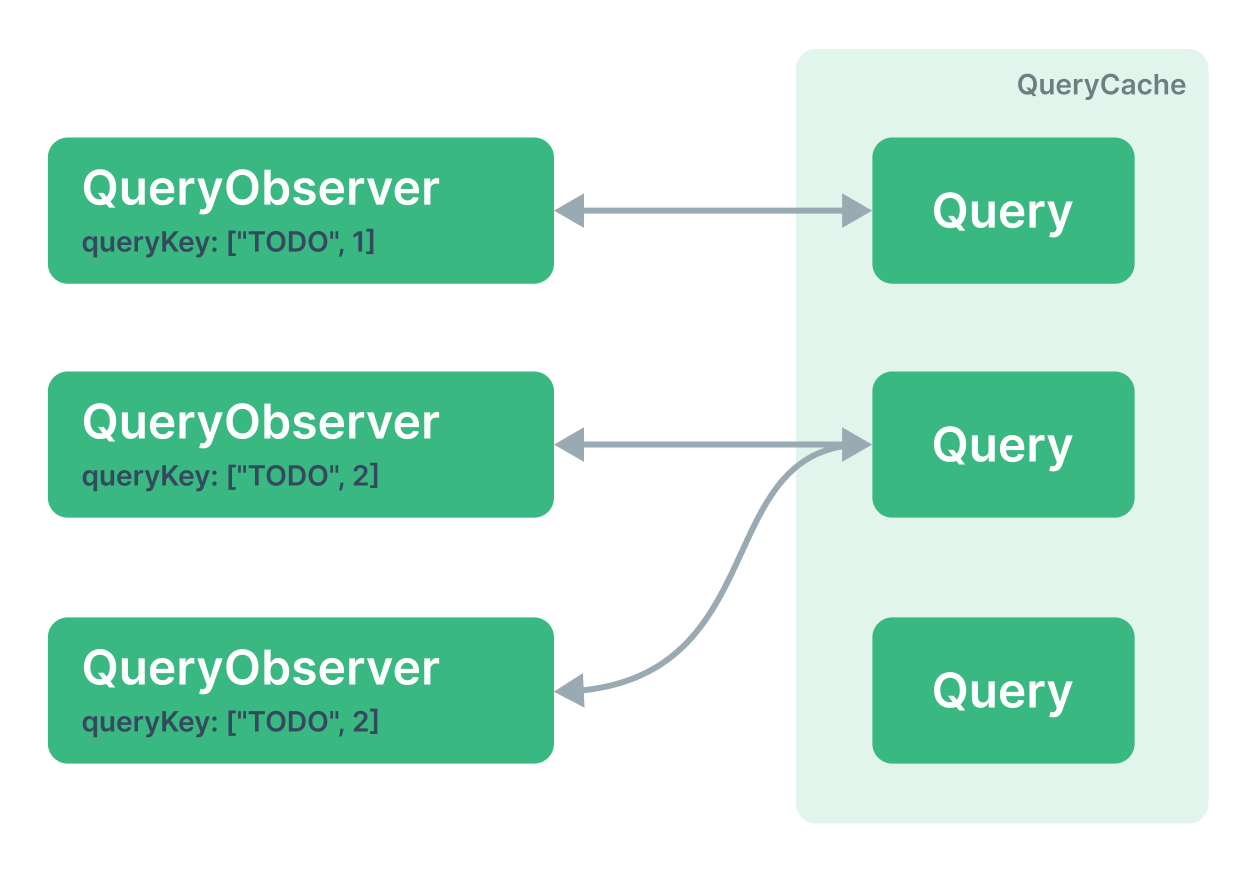
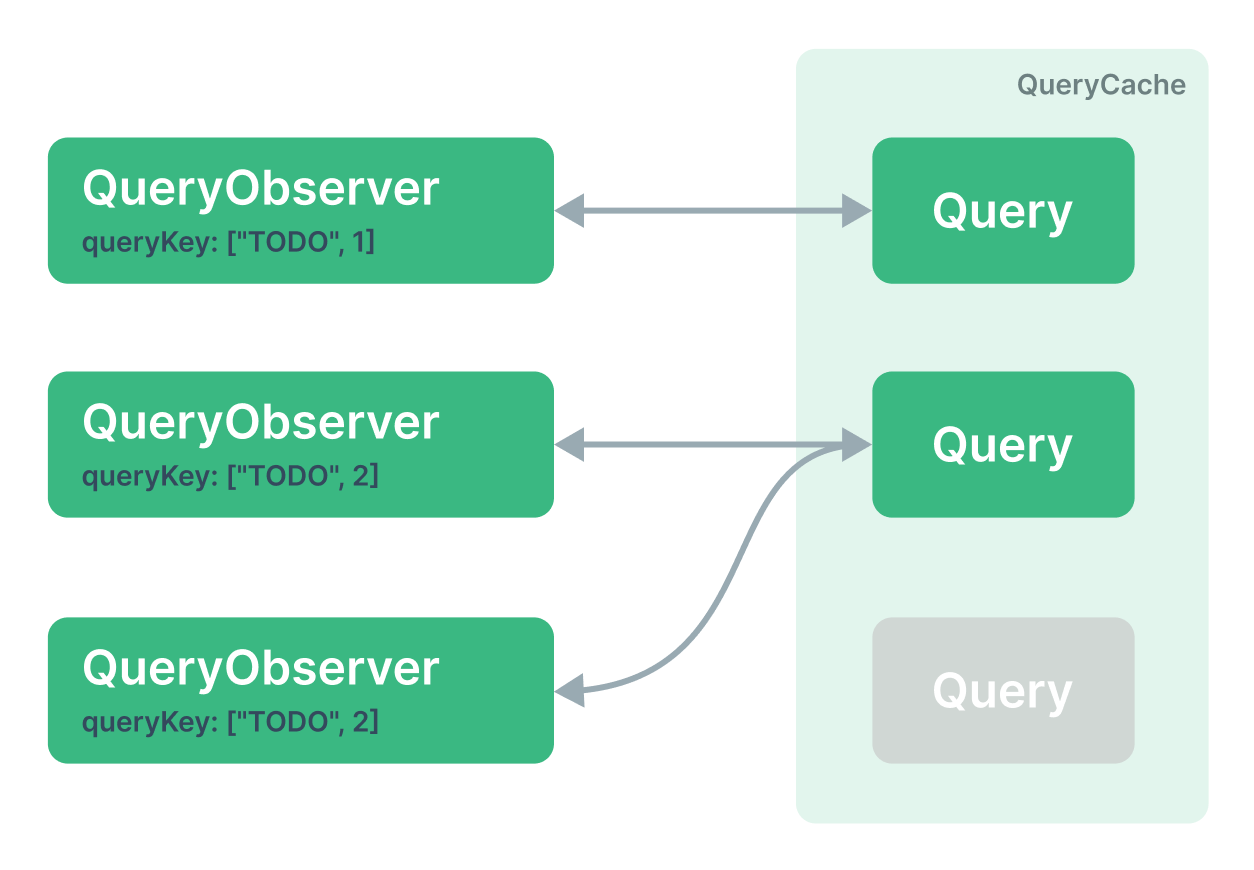
update

Changed region(s): [[0.6842, 0.6828, 0.933, 0.9]]

diff --git a/content/posts/tanstack-query-source-code-1.md b/content/posts/tanstack-query-source-code-1.md
@@ -5,29 +5,31 @@ tags:
   - Tanstack Query
 
 created: 2023-09-30T13:45:16.002Z
-description: 你是怎麼管理專案 server data 的狀態呢？我們不僅要處理 server data 的快取，還要讓它能盡可能的跨元件共用，最後又要在適當的時候清除並更新，阿哩阿雜的很煩人。TanStack Query 是一個很棒的 data-fetching 以及 state management 工具，他可以幫助我們輕易的解決上述的各種煩人的問題。這個系列文章將從如何使用 TanStack Query 以及深入暸解它底層運作的原理與邏輯。
+description: 你是怎麼管理專案的 server data 狀態呢？前端開發時不僅要處理 server data 的快取，還要讓它能盡可能的跨元件共用，最後又要在適當的時候清除或更新，阿哩阿雜的很煩人。TanStack Query 是一個可以很好的解決這些問題的工具。這個系列文章將從如何使用 TanStack Query 以及深入暸解它底層運作的原理與邏輯。
 ---
 
 ## 前言
+
+> 本篇的 TanStack Query 版本為 5.0.0-rc.1
 
 我也還不知道這系列會有多少文章，但有更新的話會一一的列在這裡：
 
 1. [深入淺出 TanStack Query（一）：在呼叫 useQuery 後發生了什麼事](/posts/tanstack-query-source-code-1)
 
-> 本篇的 TanStack Query 版本為 5.0.0-rc.1
-
-TanStack Query 有個更為人熟知的名稱：**React-Query**。TanStack Query 在 v4 的時候將核心獨立分離出來，分離出來的 `query-core` 本身與框架無關所以可再依照不同的框架特性分別封裝成專屬特定框架使用的 package，像是目前TanStack Query 就提供以下 npm package 給不同框架的使用者使用：
+TanStack Query 有個更為人熟知的名稱叫：**React-Query**。而 TanStack Query 在 v4 的時候將核心獨立分離出來，分離出來的 `query-core` 本身與框架無關所以可再依照不同的框架特性分別封裝成專屬特定框架使用的 package，像是目前TanStack Query 就提供以下 npm package 給不同框架的使用者使用：
 
 - Vue：`@tanstack/vue-query`
 - React：`@tanstack/react-query`
 - Solid：`@tanstack/solid-query`
 - Svelte：`@tanstack/svelte-query`
 
-我第一次接觸 Tanstack Query 是在他還叫做 React Query 的時期，後來的工作多以 Vue 為主，也剛好這時 React Query 改名成了 TanStack Query 也推出了 Vue 的版本，所以接下來的範例會用設計給 Vue 使用的 `@tanstack/vue-query` 撰寫，API 在使用上會與 React 版本的 `@tanstack/react-query` 有一丁點差異。在涉及核心實作時，基本上如同前面提到的「**與框架無關**」所以就算是 React 的使用者也可以方心服用。
+所以接下來的範例會用設計給 Vue 使用的 `@tanstack/vue-query` 撰寫，API 在使用上會與 React 版本的 `@tanstack/react-query` 有一丁點差異。在涉及核心實作時，基本上就如同前面提到的「**與框架無關**」所以就算是 React 的使用者也可以方心服用。
 
 ## 為何要使用 Tanstack Query
 
-Tanstack Query 不是一個 Data Fetching 的工具，他是一個 Server Data 的狀態管理工具？Tanstack Query 會幫我們快取來自 Server 的 Data，並且在適當的時間內重用快取或是在背景重新去得資料。在不使用 Tanstack Query 時我們需要手動的將這些狀態一個一個存起來自己管理：
+Tanstack Query 不是一個 data fetching 的工具，它是一個 server data 的狀態管理工具？Tanstack Query 會幫我們快取來自 server 的資料，並且在適當的時間內盡可能使用快取或是在過期後背景重新去得資料。
+
+在不使用 Tanstack Query 時我們需要手動的將這些狀態一個一個存起來自己管理：
 
 ```vue
 <script lang="ts">
@@ -131,11 +133,11 @@ const { data, error, isFetching } = useTodo(1);
 
 如果 A 元件與 B 元件同時出現在畫面上，則只會發出一個 data fetching，並且兩個元件共享同一個資料響應。
 
-感受到 Tanstack Query 的威力了嗎？當然他遠不止如此，其他的未來有機會再慢慢介紹，到這裡扣出了本篇想探討的主題：在呼叫 `useQuery` 後發生了什麼事？
+感受到 Tanstack Query 的威力了嗎？當然他遠不止如此，其他的未來有機會再慢慢介紹，到這裡扣出了本篇想探討的主題：**在呼叫 `useQuery` 後發生了什麼事？**
 
 ## 在呼叫 useQuery 後發生了什麼事
 
-在我們每次呼叫了 `useQuery` 後 Tanstack Query 會建立一個 `QueryObserver` 的 instance，這個 instance 紀錄著我們傳入的設定，並且他會拿著這個設定去一個叫 `QueryCache` 的 instance 上找有沒有符合條件的 `Query` instance 存在，有的話就取出使用，沒有的話 `QueryCache` 就會就建立一個新的 `Query` instance 返回並儲存。
+在我們每次呼叫 `useQuery` 後 Tanstack Query 會建立一個 `QueryObserver` 的 instance，這個 instance 紀錄著我們傳入的設定，並且他會拿著這個設定去一個叫 `QueryCache` 的 instance 上找有沒有符合條件的 `Query` instance 存在，有的話就取出使用，沒有的話 `QueryCache` 就會就建立一個新的 `Query` instance 返回並儲存。
 
 所以如果當上面範例的 `useTodo` 分別傳入不同 `id` 呼叫了三次，他被後建立的結構圖如下：
 
@@ -153,7 +155,7 @@ function useTodo(id: number) {
 }
 ```
 
-每一個 `QueryObserver` instance 都只會對應到一個 `Query` instance。所以當上面的 `useTodo` 其中兩次呼叫的參數是重複的時候，他的關係圖就會如下：
+每一個 `QueryObserver` instance 都只會對應到一個 `Query` instance。所以當程式更新，第三個 `useTodo` 呼叫的 `queryKey` 變成與第二次的相同，他的關係圖就會變成如下：
 
 ![Query 與 QueryObserver 結構圖（2） - by Alex Liu](/images/query-architecture-2.png){width=794 height=530}
 
@@ -214,17 +216,25 @@ JSON.stringify(value [,replacer [, space]])
 
 轉換成字串的 `queryKey` 叫做 `queryHash`，有了 `queryHash` 就可以在 `QueryCache` 上的 `#queries` 找找有沒有存在的 `Query` instance 在裡面。有的話就重複使用，沒有的話就建立一個新的 `Query` instance。
 
+注意：因為 `queryKey` 轉換成 `queryHash` 的過程在實作上只針對物件的 keys 做排序，所以陣列裡面的順序不同是會視為不同的 `queryKey`。
+
+```ts
+useQuery({ queryKey: ['TODOS', status, page], ... })
+useQuery({ queryKey: ['TODOS', page, status], ...})
+useQuery({ queryKey: ['TODOS', undefined, page, status], ...})
+```
+
+以上三個，因為陣列內的順序不太一樣，所以會視為不同的 `queryKey`。
+
 ## 建立雙向的關係
 
 每一個 `QueryObserver` 都會指向一個 `Query`，而 `Query` 掌管了 data fetching 跟狀態管理，當 `Query` instance 上的資料更新他也要通知所有 `QueryObserver` 更新資料，可是此時 `Query` 並不會知道有哪些 `QueryObserver` 指向（訂閱）他，所以 Tanstack Query 需要一個機制來讓 `Query` 收集有哪些 `QueryObserver` 指向自己。
 
-為了說明 Tanstack Query 怎麼處理這件事情，我們先跳離核心（`query-core`），來看看 `vue-query` 怎麼訂閱 `Query` 上的狀態。
+為了說明 Tanstack Query 怎麼處理這件事情，我們先跳離核心（`query-core`），來看看 `vue-query` 跟 `react-query` 怎麼訂閱 `Query` 上的狀態更新。
 
 **vue-query**
 
 ```ts
-// useBasicQuery.ts
-
 const observer = new Observer(client, defaultedOptions.value)
 const state = reactive(observer.getCurrentResult())
 
@@ -242,6 +252,32 @@ watch(
 )
 ```
 
+**react-query**
+
+```ts
+const [observer] = React.useState(() => new Observer(client, defaultedOptions),)
+const result = observer.getCurrentResult()
+
+React.useSyncExternalStore(
+  React.useCallback(
+    (onStoreChange) => {
+      const unsubscribe = isRestoring
+        ? () => undefined
+        : observer.subscribe(notifyManager.batchCalls(onStoreChange))
+
+      // Update result to make sure we did not miss any query updates
+      // between creating the observer and subscribing to it.
+      observer.updateResult()
+
+      return unsubscribe
+    },
+    [observer, isRestoring],
+  ),
+  () => observer.getCurrentResult(),
+  () => observer.getCurrentResult(),
+)
+```
+
 假設 `isRestoring` 一開始就是 `false`，這時會執行 `observer.subscribe(callback)`。這個 `subscribe` 是 `QueryObserver` 繼承的 `Subscribable` 類型上的實作方法，他又會呼叫 `QueryObserver` 上的 `onSubscribe`，如下：
 
 ```ts
@@ -250,7 +286,8 @@ class QueryObserver extends Subscribable {
    protected onSubscribe(): void {
     if (this.listeners.size === 1) {
       // this.#currentQuery 是這個 QueryObserver 指向的 `Query` instance
-      // 當框架實作訂閱了
+      // 當框架實作執行了 `observer.subscribe(callback)` 就會在這裡將當前的
+      // QueryObserver instance 加到 `Query` 的觀察者清單裡面。
       this.#currentQuery.addObserver(this)
 
       if (shouldFetchOnMount(this.#currentQuery, this.options)) {
@@ -263,9 +300,9 @@ class QueryObserver extends Subscribable {
 }
 ```
 
-當 `onSubscribe` 被呼叫後，`QueryObserver` 就會將自己的 instance 添加到他所追蹤的 `Query` instance 上的觀察者清單，這樣 `Query` 就完成了訂閱的收集，只要 `Query` 有任何狀態變更，像是開始請求、請求成功、請求失敗 … 等，`Query` 都可以把收集到的 `QueryObserver` 一個一個叫出來更新。
+當 `onSubscribe` 被呼叫後，`QueryObserver` 就會將自己的 instance 添加到他所追蹤的 `Query` instance 上的觀察者清單，這樣 `Query` 就完成了訂閱的收集，接下來只要 `Query` 有任何狀態變更，像是開始請求、請求成功、請求失敗 … 等，`Query` 都可以把收集到的 `QueryObserver` 一個一個叫出來更新。
 
-建立了雙向的關係，`QueryObserver` 可以知道要去那個一個 `Query` 上面找資料，而 `Query` 也會知道當自己狀態變化時要去叫哪些 `QueryObserver` 更新資料，這就是「觀察者模式」（Observer Pattern）又被稱為「發布-訂閱模式」（Publish-Subscribe Pattern）
+建立了雙向的關係，`QueryObserver` 可以知道要去那個一個 `Query` 上面找資料，而 `Query` 也會知道當自己狀態變化時要去叫哪些 `QueryObserver` 更新資料，這就是「觀察者模式」（Observer Pattern）又被稱為「發布-訂閱模式」（Publish-Subscribe Pattern）。
 
 ## 結語
 
@@ -285,4 +322,4 @@ class QueryObserver extends Subscribable {
 - [JSON.stringify() - JavaScript | MDN](https://developer.mozilla.org/en-US/docs/Web/JavaScript/Reference/Global_Objects/JSON/stringify)
 - [Observer Pattern | Patterns](https://www.patterns.dev/posts/observer-pattern)
 - [觀察者模式 | Rock070](https://rock070.me/notes/designpattern/22_pattern/observer-pattern)
-- [[npm] react-query](https://pjchender.dev/npm/npm-react-query/)
+- [[npm] react-query | PJCHENder 未整理筆記](https://pjchender.dev/npm/npm-react-query/)
